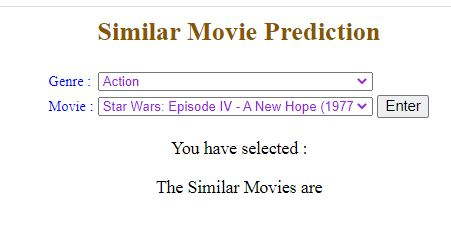
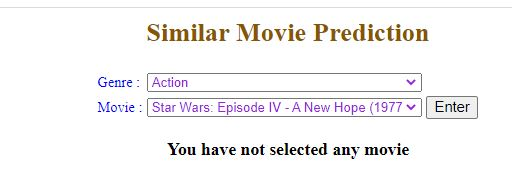
beautifying product

diff --git a/templates/form_dynamic.html b/templates/form_dynamic.html
@@ -7,7 +7,8 @@
     <script src="{{ url_for('static', path='/on_change.js') }}"></script>
 </head>
 <body>
-<center><h2> Similar Movie Prediction </h2>
+<center>
+<h2> Similar Movie Prediction </h2>
 <form action="/render" method="post" >
 <table id="List_movies"> <tr> <td>
 	<label for="Genre_choice">Genre :</label> </td>
@@ -38,9 +39,25 @@
 <input type="submit" value="Enter"></td></tr>
 </table>
 </form>
-<p>You have selected : {{ selected_movies }}</p>
-<p> The Similar Movies are </p>
-{{ rec_movies |safe }}
+{% if selected_movies %}
+    <p>You have selected : {{ selected_movies }}</p>
+    <p> The Similar Movies are </p>
+    <table id="result_movies">
+            {% for key,value in movies_df.iterrows() %}
+             {% if value['SearchType'] =="KB"%}
+                <tr><td class="KB" >{{key+1}} : {{ value['Title'] }}</td></tr>
+             {% else %}
+             <tr><td class="UR" > {{key+1}} : {{ value['Title'] }}</td></tr>
+                {% endif %}
+            {% endfor %}        
+    </table>
+    <table >
+        <tr><td class="KB">&nbsp;&nbsp;&nbsp;&nbsp;</td> <td> Keyword Based</td>
+        <tr><td class="UR">&nbsp;&nbsp;&nbsp;&nbsp;</td> <td> Based on User Reviews</td>
+    </table>
+{% else %}
+    <p>You have not  selected any movie</p>
+{% endif %}
 </center>
 </body>
 </html>

diff --git a/static/styles.css b/static/styles.css
@@ -18,16 +18,22 @@ select
     width: 250;
 }
 
+.KB{
+    background-color:rgb(240, 177, 52);
+}
+
+.UR{
+    background-color:rgb(145, 156, 216);
+}
+
 tr{
     text-align: left;
 }
 
 #result_movies
 {
-    border: 1px ;
-    border-color: black;
+    border: 1px solid white;
     font-size: 14px;
     color: rgb(53, 4, 34); 
     width: 300;
-    background-color:floralwhite
 }

diff --git a/app.py b/app.py
@@ -34,7 +34,7 @@ async def render(request: Request, category_id: str = Form(...),movie_id: str = 
     df_movies = getting_recommended_movie(movie_id)
     df_movies.reset_index(inplace=True)
     df_movies['Similar Movies'] =df_movies['Title'] + '--------- ' + df_movies['SearchType']
-    df_movies=df_movies[['Similar Movies']]
+    #df_movies=df_movies[['Similar Movies']]
     #print(df_movies.to_html())
     return templates.TemplateResponse(
         "form_dynamic.html",
@@ -44,6 +44,7 @@ async def render(request: Request, category_id: str = Form(...),movie_id: str = 
             "selected_movies" :movie_id,
             "movies": Genre,
             "movie_list": movie_list,
+            "movies_df":df_movies,
             "rec_movies": df_movies.head(movie_config['Result_size']).to_html(
                 border=1,index=False, header=False,table_id="result_movies"
             ),

diff --git a/README.md b/README.md
@@ -28,3 +28,7 @@ The matrix will be like
 when user select any movies we sort this based on similarity and return.
 
 ![ScreenShot](https://github.com/Sandutta2020/MoviePrediction/blob/master/static/Front_Page.JPG)
+
+after clicking the Enter:
+
+![ScreenShot](https://github.com/Sandutta2020/MoviePrediction/blob/master/static/Result_Page.JPG)
